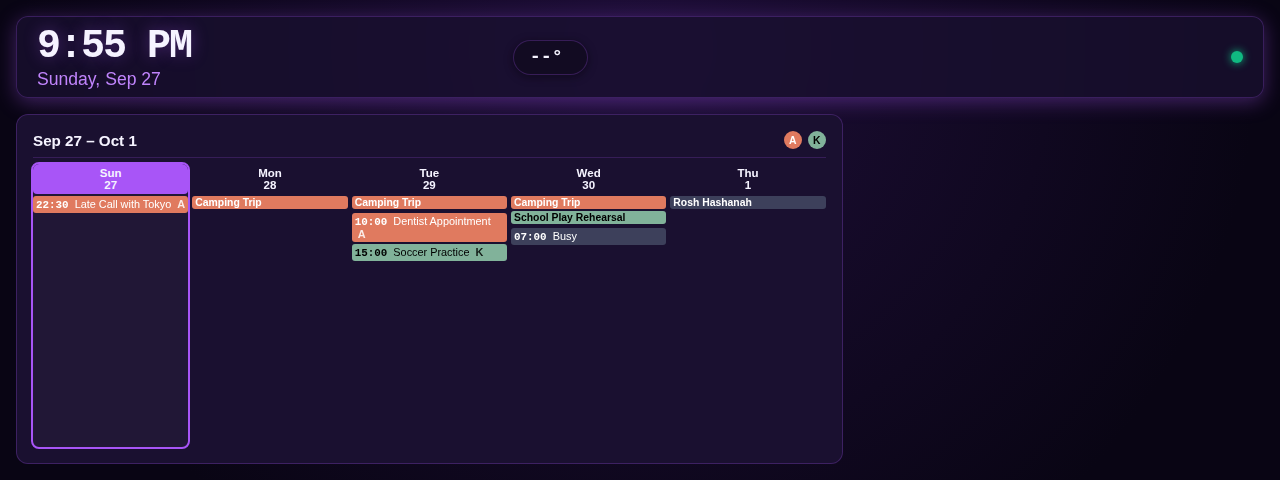
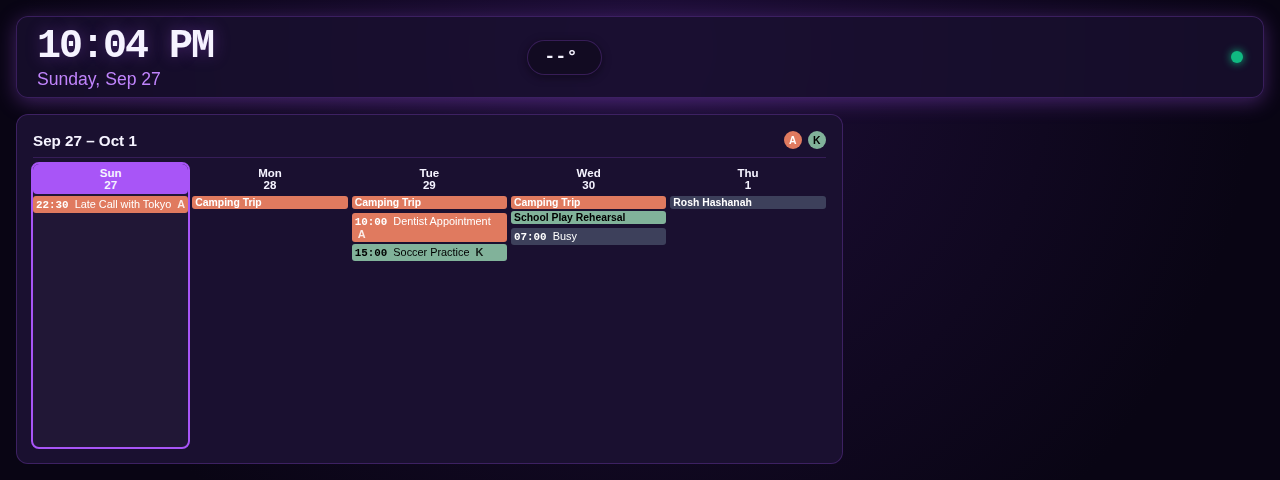
calendar-family: fix timezone plumbing, restore CSS custom properties, confine e-ink patterns
- The render engine's nowFunc defaulted to time.Now (process-local, UTC in
  the production container), so family.go's t.In(now.Location()) calls
  from the prior commit were a no-op there. Add householdNowFunc in
  cmd/server/main.go, wired via render.WithNowFunc, so the render engine's
  clock reports the current instant in the household's configured
  timezone (config.Config.Location()) regardless of the process's own
  zone. Verified live: running the server under TZ=UTC with
  timezone: America/Los_Angeles in config.yaml still localizes an event
  correctly.
- Restore the `--mm-cf-shared`/`--mm-member-N`/`-text` CSS custom
  properties on the widget root's inline style and bind the legend chips
  to them via var(), per SPEC-014 "Styling" ("Member colours are emitted
  as CSS custom properties on the widget root ... rather than inline
  styles"). The prior commit dropped these along with the <style> block;
  the review only asked for the <style> block and @media (monochrome)
  rules to go, not this inline custom-property declaration.
- deploy/examples/eink.css: confine the hatch/dots patterns on event
  cards to a left identification strip instead of tiling the full card,
  since a tiled pattern behind title text reads as noise once dithered
  and defeats the "high-contrast, legible" goal. The legend chip keeps
  the full pattern fill (it carries only a single initial).

Changed region(s): [[0.0312, 0.0625, 0.1875, 0.125], [0.4062, 0.0938, 0.4688, 0.125]]

diff --git a/deploy/examples/eink.css b/deploy/examples/eink.css
@@ -209,23 +209,50 @@ div[data-widget-type="calendar-family"] .cf-owner-chip {
    on `.cf-owner-chip` and `.cf-event` alike). "solid" is a flat black fill
    with white content; an event/chip with no claimed owner carries no
    `.cf-pattern-*` class at all and keeps the plain white-fill/black-border
-   `.cf-event`/`.cf-owner-chip` rule above. */
+   `.cf-event`/`.cf-owner-chip` rule above.
+
+   The legend chip is small and carries only a single printed initial, so it
+   is fully patterned per spec. An event card carries a title (and for timed
+   events, a time and initials too), so hatch/dots there are confined to a
+   left identification strip rather than tiled behind the text - a
+   full-card tile reads as noise once dithered and fights the text SPEC-014
+   "E-Ink Rendering" requires stay legible. */
 div[data-widget-type="calendar-family"] .cf-pattern-solid {
   background: #000000 !important;
   background-image: none !important;
   color: #ffffff !important;
 }
 
-div[data-widget-type="calendar-family"] .cf-pattern-hatch {
+div[data-widget-type="calendar-family"] .cf-owner-chip.cf-pattern-hatch {
   background: #ffffff !important;
   background-image: repeating-linear-gradient(45deg, #000 0, #000 2px, #fff 2px, #fff 5px) !important;
   color: #000000 !important;
 }
 
-div[data-widget-type="calendar-family"] .cf-pattern-dots {
+div[data-widget-type="calendar-family"] .cf-owner-chip.cf-pattern-dots {
   background: #ffffff !important;
   background-image: radial-gradient(circle, #000 1.4px, transparent 1.6px) !important;
   background-size: 6px 6px !important;
+  color: #000000 !important;
+}
+
+div[data-widget-type="calendar-family"] .cf-event.cf-pattern-hatch {
+  background-color: #ffffff !important;
+  background-image: repeating-linear-gradient(45deg, #000 0, #000 2px, #fff 2px, #fff 5px) !important;
+  background-repeat: no-repeat !important;
+  background-size: 10px 100% !important;
+  background-position: left !important;
+  padding-left: 13px !important;
+  color: #000000 !important;
+}
+
+div[data-widget-type="calendar-family"] .cf-event.cf-pattern-dots {
+  background-color: #ffffff !important;
+  background-image: radial-gradient(circle, #000 1.4px, transparent 1.6px) !important;
+  background-repeat: no-repeat !important;
+  background-size: 6px 6px !important;
+  background-position: 3px center !important;
+  padding-left: 13px !important;
   color: #000000 !important;
 }
 

diff --git a/widgets/calendar-family/views/widget.html b/widgets/calendar-family/views/widget.html
@@ -1,10 +1,10 @@
 {{ $view := calendarFamilyView .Data .Config .Dimensions }}
-<div class="widget-card widget-calendar-family" data-widget-id="{{ .ID }}" data-widget-type="{{ .Type }}" style="grid-column: span {{ .Dimensions.Cols }}; grid-row: span {{ .Dimensions.Rows }}; display: flex; flex-direction: column;">
+<div class="widget-card widget-calendar-family" data-widget-id="{{ .ID }}" data-widget-type="{{ .Type }}" style="grid-column: span {{ .Dimensions.Cols }}; grid-row: span {{ .Dimensions.Rows }}; display: flex; flex-direction: column; --mm-cf-shared: {{ $view.SharedColor }};{{ range $i, $m := $view.Members }} --mm-member-{{ $i }}: {{ $m.Color }}; --mm-member-{{ $i }}-text: {{ $m.TextColor }};{{ end }}">
   <div class="cf-header" style="display: flex; align-items: center; justify-content: space-between; padding-bottom: 8px; margin-bottom: 6px; border-bottom: 1px solid rgba(168, 85, 247, 0.2);">
     <span class="cf-range-label" style="font-size: 0.95rem; font-weight: 700; color: var(--mm-text-primary);">{{ $view.RangeLabel }}</span>
     <div class="cf-legend" style="display: flex; gap: 6px;">
       {{ range $i, $m := $view.Members }}
-      <span class="cf-owner-chip cf-pattern-{{ $m.Pattern }}" title="{{ $m.Name }}" style="display: inline-flex; align-items: center; justify-content: center; width: 18px; height: 18px; border-radius: 50%; font-size: 0.65rem; font-weight: 700; background: {{ $m.Color }}; color: {{ $m.TextColor }};">{{ $m.Initial }}</span>
+      <span class="cf-owner-chip cf-pattern-{{ $m.Pattern }}" title="{{ $m.Name }}" style="display: inline-flex; align-items: center; justify-content: center; width: 18px; height: 18px; border-radius: 50%; font-size: 0.65rem; font-weight: 700; background: var(--mm-member-{{ $i }}); color: var(--mm-member-{{ $i }}-text);">{{ $m.Initial }}</span>
       {{ end }}
     </div>
   </div>

diff --git a/cmd/server/main_test.go b/cmd/server/main_test.go
@@ -12,6 +12,8 @@ import (
 	"strings"
 	"testing"
 	"time"
+
+	"github.com/azylman/mirrormere/internal/config"
 )
 
 func init() {
@@ -442,5 +444,36 @@ func TestMain_ExecutionWithError(t *testing.T) {
 
 	if exitCode != 1 {
 		t.Errorf("expected exit code 1, got %d", exitCode)
+	}
+}
+
+// fakeSnapshotProvider is a minimal render.StateSnapshotProvider stub carrying only what
+// householdNowFunc reads.
+type fakeSnapshotProvider struct {
+	snap *config.Snapshot
+}
+
+func (f *fakeSnapshotProvider) CurrentSnapshot() *config.Snapshot { return f.snap }
+func (f *fakeSnapshotProvider) GetWidgetState(string) (any, string, string, bool) {
+	return nil, "", "", false
+}
+func (f *fakeSnapshotProvider) CurrentStatus() config.Status { return config.Status{} }
+
+func TestHouseholdNowFunc_UsesConfiguredTimezoneRegardlessOfProcessLocal(t *testing.T) {
+	// Asia/Tokyo (UTC+9, no DST) is very unlikely to match this test process's own local zone,
+	// so if householdNowFunc returned time.Now() untouched, the location would not be JST.
+	sp := &fakeSnapshotProvider{snap: &config.Snapshot{Config: &config.Config{Timezone: "Asia/Tokyo"}}}
+	now := householdNowFunc(sp)()
+	if zone, _ := now.Zone(); zone != "JST" {
+		t.Fatalf("expected householdNowFunc to report the household's configured zone (JST), got %s", zone)
+	}
+}
+
+func TestHouseholdNowFunc_FallsBackToProcessLocalWithoutASnapshot(t *testing.T) {
+	if got := householdNowFunc(&fakeSnapshotProvider{snap: nil})(); got.IsZero() {
+		t.Fatal("expected a non-zero time when no snapshot is available")
+	}
+	if got := householdNowFunc(nil)(); got.IsZero() {
+		t.Fatal("expected a non-zero time for a nil provider")
 	}
 }

diff --git a/cmd/server/main.go b/cmd/server/main.go
@@ -65,6 +65,25 @@ func WithAddrChan(ch chan<- string) Option {
 	}
 }
 
+// householdNowFunc returns a clock for the render engine that reports the current instant in
+// the household's configured timezone (SPEC-001 §4: "calendar event bounding intervals ...
+// execute against this house timezone") rather than the server process's own zone, which is
+// UTC in the production container. Without this, BuildFamilyView's t.In(now.Location()) calls
+// in internal/render/family.go are a no-op (now.Location() would already be UTC), so a UTC
+// event near local midnight would still land on the wrong day (SPEC-014 "Timezones").
+func householdNowFunc(sp render.StateSnapshotProvider) func() time.Time {
+	return func() time.Time {
+		now := time.Now()
+		if sp == nil {
+			return now
+		}
+		if snap := sp.CurrentSnapshot(); snap != nil && snap.Config != nil {
+			return now.In(snap.Config.Location())
+		}
+		return now
+	}
+}
+
 // Run executes the server application with the supplied arguments and context.
 func Run(ctx context.Context, args []string, stdout, stderr io.Writer) error {
 	return RunWithReady(ctx, args, stdout, stderr, nil)
@@ -238,7 +257,7 @@ func RunWithReady(ctx context.Context, args []string, stdout, stderr io.Writer, 
 	pushHandler := provider.NewPushHandler(providerCoord, logger)
 
 	// 11. Render & Display Handlers
-	renderEngine := render.NewEngine(loader, stateProvider)
+	renderEngine := render.NewEngine(loader, stateProvider, render.WithNowFunc(householdNowFunc(stateProvider)))
 	renderHandler := render.NewHandler(renderEngine, loader)
 	displayHandler := display.NewHandler(
 		display.WithTimezoneProvider(func() string {
